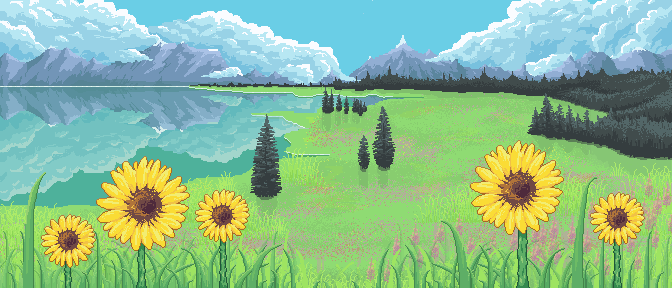
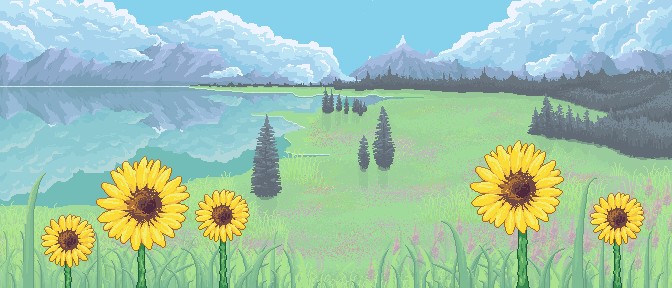
parallax

diff --git a/src/pages/Home.jsx b/src/pages/Home.jsx
@@ -11,12 +11,12 @@ function Home() {
         setDay(!day);
     }
 
-    const handleMouseMove = (e) => {
+    const handleMouseMove = (e) => {  // TODO: cleanup
         if (foregroundRef.current) {
             const { left, width } = foregroundRef.current.getBoundingClientRect();
             const x = (e.clientX - left) / width;
             
-            const moveX = -(x - 0.5) * 30;
+            const moveX = -(x - 0.5) * 60;
 
             foregroundRef.current.style.transform = `translateX(${moveX}px)`;
         }
@@ -25,7 +25,7 @@ function Home() {
             const { left, width } = midgroundRef.current.getBoundingClientRect();
             const x = (e.clientX - left) / width;
             
-            const moveX = -(x - 0.5) * 15;
+            const moveX = -(x - 0.5) * 30;
 
             midgroundRef.current.style.transform = `translateX(${moveX}px)`;
         }
@@ -34,7 +34,7 @@ function Home() {
             const { left, width } = backgroundRef.current.getBoundingClientRect();
             const x = (e.clientX - left) / width;
             
-            const moveX = -(x - 0.5) * 5;
+            const moveX = -(x - 0.5) * 10;
 
             backgroundRef.current.style.transform = `translateX(${moveX}px)`;
         }
@@ -47,18 +47,18 @@ function Home() {
 
     return (
         <div onMouseMove={handleMouseMove}>
-            <img src='/portfolio/assets/cloud.png' alt='cloud' className='z-20 h-screen fixed bottom-20 hidden lg:block' style={{imageRendering: 'pixelated'}}></img>
-            <div className={`h-screen w-full bg-cover bg-[position:18%_center] lg:bg-center bg-no-repeat bg-fixed [image-rendering:pixelated]`} style={{ backgroundImage: `url(${bgImage})` }}>
+            <div className={`fixed top-0 right-10 z-0 h-screen w-full bg-cover bg-[position:67%_center] lg:bg-center bg-no-repeat bg-fixed [image-rendering:pixelated] transform transition-transform duration-100 ease-out pointer-events-none`} style={{ backgroundImage: `url(/portfolio/assets/home-background.png)` }} ref={backgroundRef}>
+            </div>
+            <img src='/portfolio/assets/cloud.png' alt='cloud' className='z-40 h-screen fixed bottom-20 hidden lg:block' style={{imageRendering: 'pixelated'}}></img>
+            <div className={`h-screen w-full bg-cover bg-[position:18%_center] z-30 lg:bg-center bg-no-repeat bg-fixed [image-rendering:pixelated]`} style={{ backgroundImage: `url(${bgImage})` }}>
                 {/* <button className='fixed top-5 right-5 bg-black hover:bg-teal-700 text-white text-lg font-bold py-2 px-4 pl-6 pr-6 rounded-full border-2 border-white border-solid' onClick={handleClick}>TEMP</button> */}
                 <div className='w-full h-full flex justify-center items-center'>
                     <Carousel/>
                 </div>
             </div>
-            <div className={`fixed top-0 right-10 z-0 h-screen w-full bg-cover bg-[position:67%_center] lg:bg-center bg-no-repeat bg-fixed [image-rendering:pixelated] transform transition-transform duration-100 ease-out`} style={{ backgroundImage: `url(/portfolio/assets/home-background.png)` }} ref={backgroundRef}>
+            <div className={`fixed top-5 right-20 z-10 h-screen w-full bg-cover bg-[position:67%_center] lg:bg-center bg-no-repeat bg-fixed [image-rendering:pixelated] transform transition-transform duration-100 ease-out pointer-events-none`} style={{ backgroundImage: `url(/portfolio/assets/home-foreground.png)` }}  ref={midgroundRef}>
             </div>
-            <div className={`fixed top-5 left-20 z-0 h-screen w-full bg-cover bg-[position:67%_center] lg:bg-center bg-no-repeat bg-fixed [image-rendering:pixelated] transform transition-transform duration-100 ease-out`} style={{ backgroundImage: `url(/portfolio/assets/home-foreground.png)` }}  ref={midgroundRef}>
-            </div>
-            <div className={`fixed top-0 left-0 z-20 h-screen w-full bg-cover bg-[position:67%_center] lg:bg-center bg-no-repeat bg-fixed [image-rendering:pixelated] transform transition-transform duration-100 ease-out pointer-events-none`} style={{ backgroundImage: `url(/portfolio/assets/home-foreground.png)` }}  ref={foregroundRef}>
+            <div className={`fixed top-0 left-5 z-20 h-screen w-full bg-cover bg-[position:67%_center] lg:bg-center bg-no-repeat bg-fixed [image-rendering:pixelated] transform transition-transform duration-100 ease-out pointer-events-none`} style={{ backgroundImage: `url(/portfolio/assets/home-foreground.png)` }}  ref={foregroundRef}>
             </div>
         </div>
     );

diff --git a/src/components/Carousel.jsx b/src/components/Carousel.jsx
@@ -34,7 +34,7 @@ function Carousel() {
             {
             // <div className='flex flex-col md:flex-row md:justify-between'>
             }
-                <h1 className='text-black text-lg md:text-4xl 2xl:text-5xl font-vt323 flex items-center mb-2 justify-center md:justify-start'><img src="/portfolio/sunflower.ico" alt="sunflower" className='h-8 md:h-10 2xl:h-11 w-auto mr-2' style={{imageRendering: 'pixelated'}}></img> Welcome to my <span className='text-yellow-400 ml-2 md:ml-3'>Portfolio</span></h1>
+                <h1 className='text-black text-lg md:text-4xl 2xl:text-5xl font-vt323 flex items-center mb-2 justify-center md:justify-start'><img src="/portfolio/sunflower.ico" alt="sunflower" className='h-8 md:h-10 2xl:h-11 w-auto mr-2' style={{imageRendering: 'pixelated'}}></img> Welcome to my <span className='text-yellow-500 ml-2 md:ml-3'>Portfolio</span></h1>
                 {
                     //<div className='text-lg 2xl:text-xl h-7 2xl:h-10 w-52 2xl:w-64 p-2 mt-2 mb-2 2xl:mb-5 bg-black text-teal-400 rounded-lg font-vt323 border-b border-r border-gray-400 flex items-center'><Typewriter text='Hello! :) '/></div>
                 }
@@ -43,7 +43,7 @@ function Carousel() {
                 //<hr></hr>
             }
         </div>
-        <div className='z-10 w-full flex flex-col items-center justify-center mt-3 2xl:mt-10 bg-white/60 py-5 rounded-lg shadow-[0_0_6px_2px_#14b8a6] border border-teal-500'>
+        <div className='w-full flex flex-col items-center justify-center mt-3 2xl:mt-10 bg-white/60 py-5 rounded-lg shadow-[0_0_6px_2px_#14b8a6] border border-teal-500'>
             <h2 className='text-black text-2xl 2xl:text-2xl mb-2 md:mb-0 font-vt323'>Featured Projects</h2>
             <div className='flex justify-center md:justify-between items-center py-2 2xl:pt-5 2xl:pb-10 w-full h-80 md:h-72 2xl:h-120'>
                 <button className='hidden md:block p-10 z-40 cursor-auto'><FaAngleLeft size={32} onClick={onLeftClick} className='cursor-pointer text-gray-600 hover:text-gray-900' /></button>
